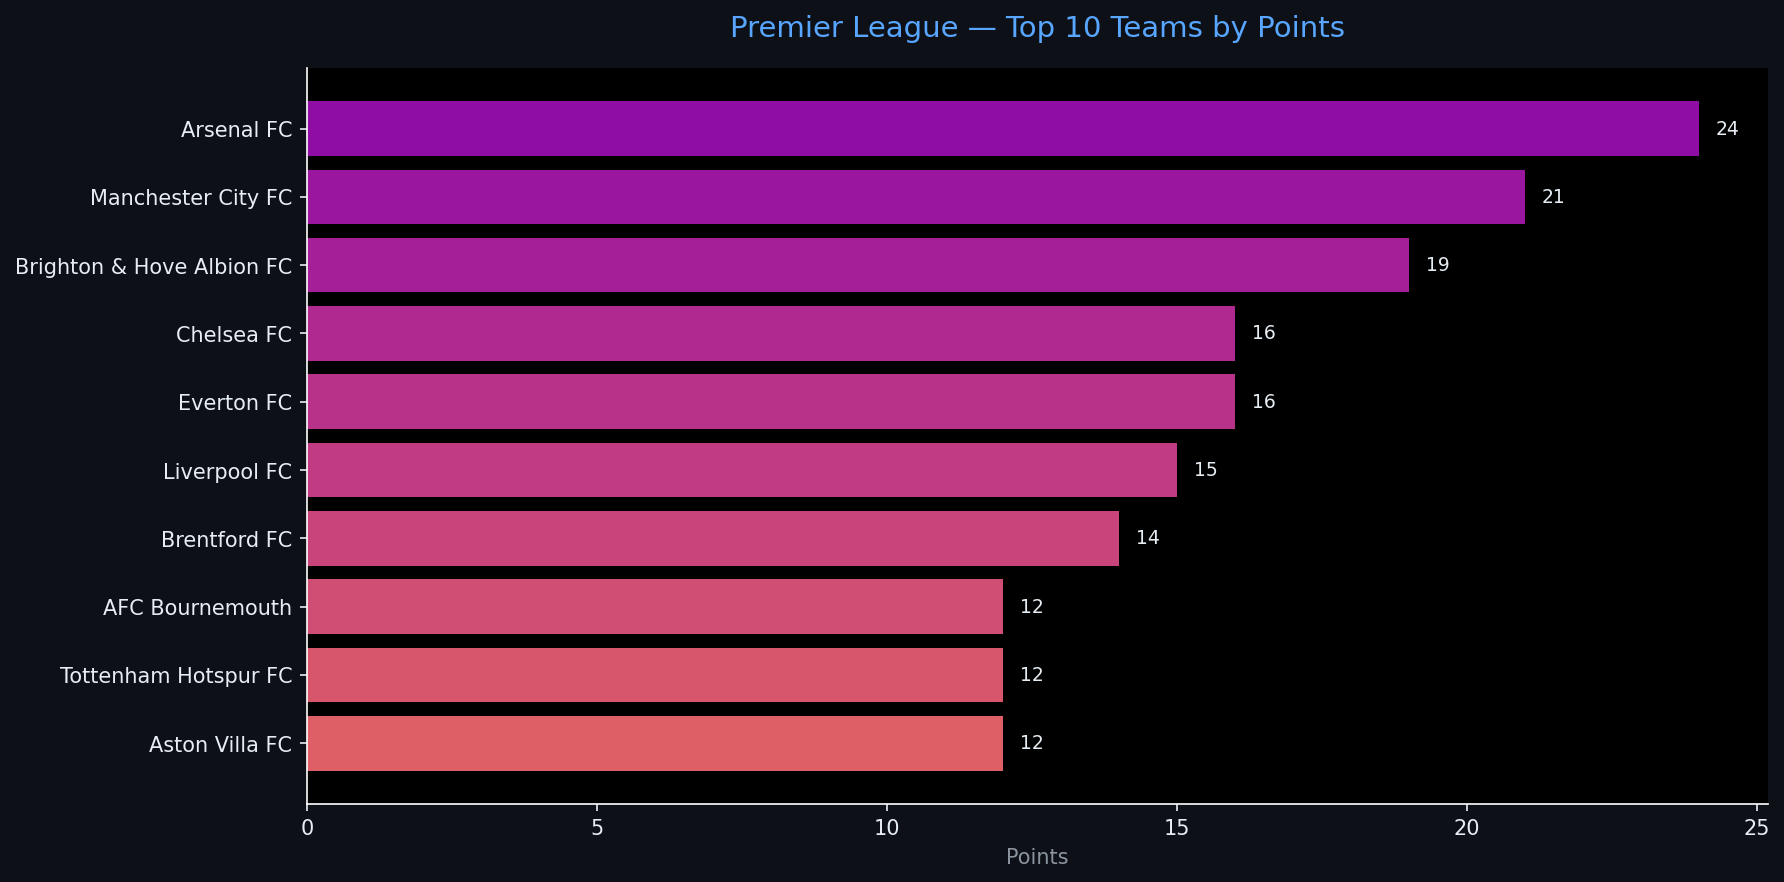
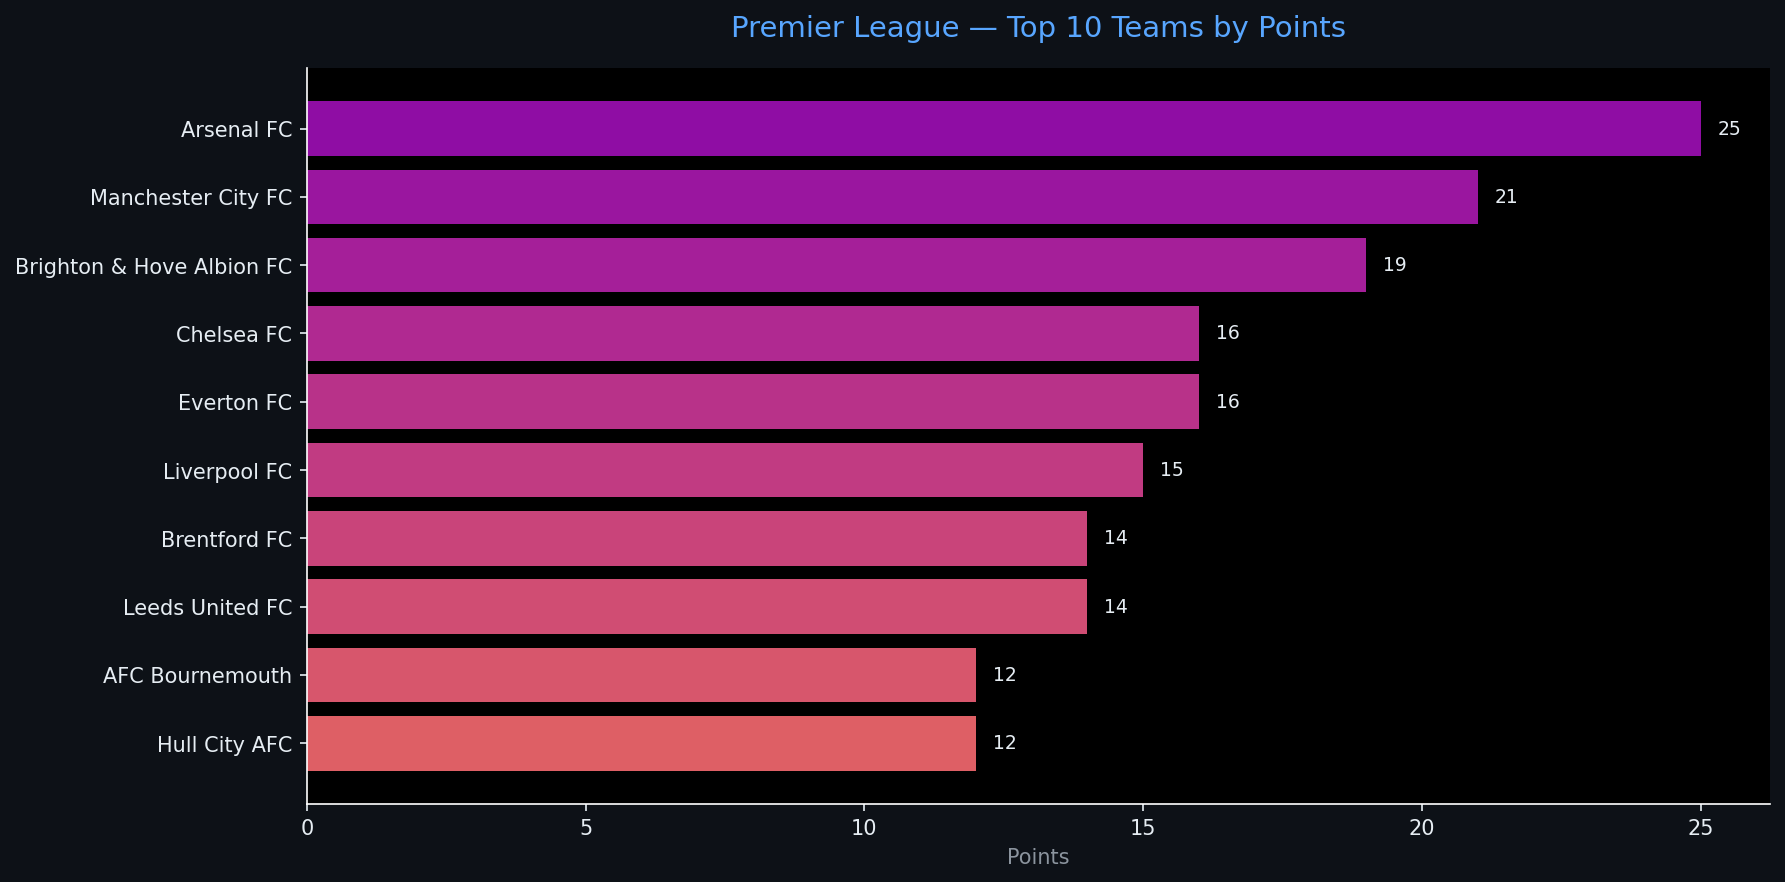
Automated ETL data update: 2026-11-07 16:00

diff --git a/reports/pipeline_report.html b/reports/pipeline_report.html
@@ -4,7 +4,7 @@
 <head>
     <meta charset="UTF-8">
     <meta name="viewport" content="width=device-width, initial-scale=1.0">
-    <title>Sports Data Pipeline Report — 2026-11-07 08:06</title>
+    <title>Sports Data Pipeline Report — 2026-11-07 16:00</title>
     <style>
         body { font-family: 'Segoe UI', sans-serif; background: #0d1117; color: #e6edf3; margin: 0; padding: 2rem; }
         h1   { color: #58a6ff; border-bottom: 1px solid #30363d; padding-bottom: 0.5rem; }
@@ -20,7 +20,7 @@
 </head>
 <body>
     <h1>⚽ Sports Data Pipeline — Automated Report</h1>
-    <p class="meta">Generated: 2026-11-07 08:06 UTC &nbsp;|&nbsp; Sport: <strong>football</strong> &nbsp;|&nbsp; Rows: <strong>20</strong></p>
+    <p class="meta">Generated: 2026-11-07 16:00 UTC &nbsp;|&nbsp; Sport: <strong>football</strong> &nbsp;|&nbsp; Rows: <strong>20</strong></p>
     <span class="badge">Pipeline v1.0.0</span>
     <h2>📊 Data Table</h2>
     <table class="dataframe data-table">
@@ -45,15 +45,15 @@
     <tr>
       <td>1</td>
       <td>Arsenal FC</td>
-      <td>9</td>
-      <td>24</td>
+      <td>10</td>
+      <td>25</td>
       <td>8</td>
-      <td>0</td>
+      <td>1</td>
       <td>1</td>
       <td>14</td>
       <td>5</td>
-      <td>0.889</td>
-      <td>2.667</td>
+      <td>0.800</td>
+      <td>2.500</td>
       <td>0.887</td>
       <td>NaN</td>
     </tr>
@@ -149,6 +149,21 @@
     </tr>
     <tr>
       <td>8</td>
+      <td>Leeds United FC</td>
+      <td>10</td>
+      <td>14</td>
+      <td>3</td>
+      <td>5</td>
+      <td>2</td>
+      <td>10</td>
+      <td>8</td>
+      <td>0.300</td>
+      <td>1.400</td>
+      <td>0.610</td>
+      <td>NaN</td>
+    </tr>
+    <tr>
+      <td>9</td>
       <td>AFC Bournemouth</td>
       <td>9</td>
       <td>12</td>
@@ -163,22 +178,52 @@
       <td>NaN</td>
     </tr>
     <tr>
-      <td>9</td>
-      <td>Tottenham Hotspur FC</td>
-      <td>9</td>
+      <td>10</td>
+      <td>Hull City AFC</td>
+      <td>10</td>
       <td>12</td>
-      <td>3</td>
-      <td>3</td>
-      <td>3</td>
+      <td>2</td>
+      <td>6</td>
+      <td>2</td>
+      <td>11</td>
       <td>10</td>
-      <td>10</td>
-      <td>0.333</td>
-      <td>1.333</td>
-      <td>0.500</td>
+      <td>0.200</td>
+      <td>1.200</td>
+      <td>0.548</td>
       <td>NaN</td>
     </tr>
     <tr>
+      <td>11</td>
+      <td>Tottenham Hotspur FC</td>
       <td>10</td>
+      <td>12</td>
+      <td>3</td>
+      <td>3</td>
+      <td>4</td>
+      <td>10</td>
+      <td>11</td>
+      <td>0.300</td>
+      <td>1.200</td>
+      <td>0.452</td>
+      <td>NaN</td>
+    </tr>
+    <tr>
+      <td>12</td>
+      <td>Newcastle United FC</td>
+      <td>10</td>
+      <td>12</td>
+      <td>3</td>
+      <td>3</td>
+      <td>4</td>
+      <td>12</td>
+      <td>15</td>
+      <td>0.300</td>
+      <td>1.200</td>
+      <td>0.390</td>
+      <td>NaN</td>
+    </tr>
+    <tr>
+      <td>13</td>
       <td>Aston Villa FC</td>
       <td>9</td>
       <td>12</td>
@@ -190,51 +235,6 @@
       <td>0.333</td>
       <td>1.333</td>
       <td>0.372</td>
-      <td>NaN</td>
-    </tr>
-    <tr>
-      <td>11</td>
-      <td>Hull City AFC</td>
-      <td>9</td>
-      <td>11</td>
-      <td>2</td>
-      <td>5</td>
-      <td>2</td>
-      <td>11</td>
-      <td>10</td>
-      <td>0.222</td>
-      <td>1.222</td>
-      <td>0.548</td>
-      <td>NaN</td>
-    </tr>
-    <tr>
-      <td>12</td>
-      <td>Leeds United FC</td>
-      <td>9</td>
-      <td>11</td>
-      <td>2</td>
-      <td>5</td>
-      <td>2</td>
-      <td>9</td>
-      <td>8</td>
-      <td>0.222</td>
-      <td>1.222</td>
-      <td>0.559</td>
-      <td>NaN</td>
-    </tr>
-    <tr>
-      <td>13</td>
-      <td>Newcastle United FC</td>
-      <td>9</td>
-      <td>11</td>
-      <td>3</td>
-      <td>2</td>
-      <td>4</td>
-      <td>12</td>
-      <td>15</td>
-      <td>0.333</td>
-      <td>1.222</td>
-      <td>0.390</td>
       <td>NaN</td>
     </tr>
     <tr>
@@ -255,14 +255,14 @@
     <tr>
       <td>15</td>
       <td>Fulham FC</td>
-      <td>9</td>
-      <td>9</td>
+      <td>10</td>
+      <td>10</td>
       <td>2</td>
-      <td>3</td>
+      <td>4</td>
       <td>4</td>
       <td>9</td>
       <td>11</td>
-      <td>0.222</td>
+      <td>0.200</td>
       <td>1.000</td>
       <td>0.401</td>
       <td>NaN</td>
@@ -362,7 +362,7 @@
         
         <tr><td>Null Values</td><td>95</td></tr>
         
-        <tr><td>Run Timestamp (UTC)</td><td>2026-11-07T08:06:13.793773</td></tr>
+        <tr><td>Run Timestamp (UTC)</td><td>2026-11-07T16:00:38.776647</td></tr>
         
         <tr><td>ML Features Ready</td><td>False</td></tr>
         
